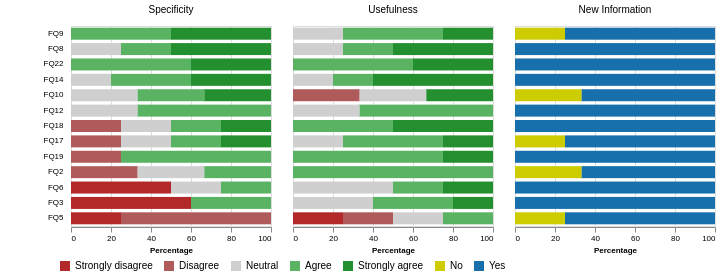
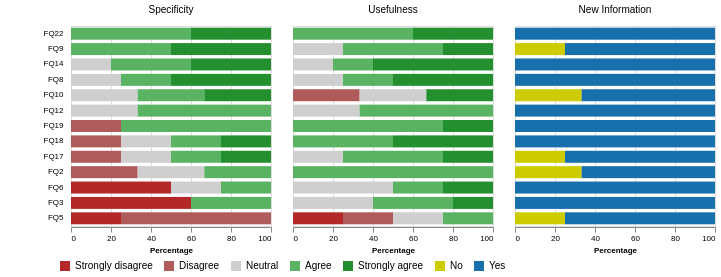
figure updated

diff --git a/visualization/visualization_per_br.py b/visualization/visualization_per_br.py
@@ -37,8 +37,8 @@ def main(args):
         x=alt.X('percentage:Q', title='Percentage',
                 axis=alt.Axis(format='.0f')),
         y=alt.Y('id:N', axis=y_axis,
-                sort=["FQ9", "FQ8", "FQ22", "FQ14", "FQ10", "FQ12", "FQ18", "FQ17", "FQ19", "FQ2", "FQ6", "FQ3",
-                      "FQ5"]),
+                sort=["FQ22", "FQ9",  "FQ14", "FQ8",   "FQ10",
+                      "FQ12", "FQ19", "FQ18", "FQ17", "FQ2", "FQ6", "FQ3", "FQ5"]),
         color=alt.Color(
             'type:N',
             legend=alt.Legend(orient='bottom', title='', padding=-12),
@@ -62,12 +62,12 @@ def main(args):
     chart.show()
 
 
-#import bokeh.palettes as bp
+# import bokeh.palettes as bp
 
 if __name__ == '__main__':
     argparser = argparse.ArgumentParser(sys.argv[0])
 
-    #print(bp.Accent7)
+    # print(bp.Accent7)
 
     argparser.add_argument("--input_file", type=str, default='survey_report.csv')
 
